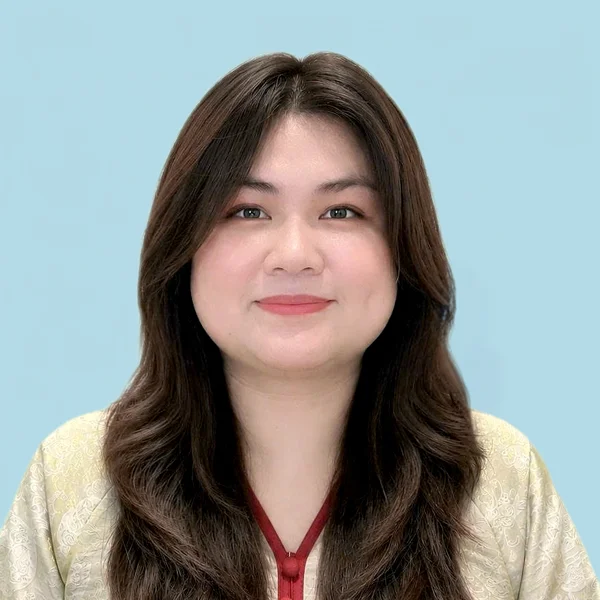
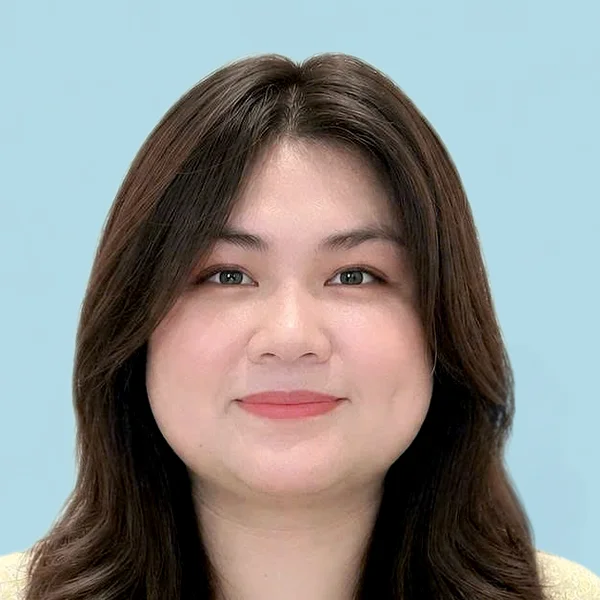
team: tighter crop on Thơ's photo to match the other portraits

diff --git a/pages/team-vi.html b/pages/team-vi.html
@@ -194,7 +194,7 @@
       <!-- Thơ N. -->
       <div class="h-card" data-reveal style="--delay:200ms;padding:2rem;">
         <div style="width:150px;height:150px;border-radius:50%;overflow:hidden;margin:0 auto 1.25rem;box-shadow:0 8px 20px -8px rgba(46,74,60,.35);">
-          <img src="../img/Tho.webp" alt="Thơ N., Điều Phối Viên Văn Phòng Tiếng Việt" style="width:100%;height:100%;object-fit:cover;object-position:center 40%;display:block;" loading="lazy" />
+          <img src="../img/Tho.webp" alt="Thơ N., Điều Phối Viên Văn Phòng Tiếng Việt" style="width:100%;height:100%;object-fit:cover;object-position:center top;display:block;" loading="lazy" />
         </div>
         <h3 class="h-card__title">Thơ N.</h3>
         <p style="font-size:.78rem;color:var(--green-md);text-transform:uppercase;letter-spacing:.1em;font-weight:600;margin:.35rem 0 .85rem;">Điều Phối Viên Văn Phòng Tiếng Việt</p>

diff --git a/pages/team.html b/pages/team.html
@@ -192,7 +192,7 @@
       <!-- Thơ N. -->
       <div class="h-card" data-reveal style="--delay:200ms;padding:2rem;">
         <div style="width:150px;height:150px;border-radius:50%;overflow:hidden;margin:0 auto 1.25rem;box-shadow:0 8px 20px -8px rgba(46,74,60,.35);">
-          <img src="../img/Tho.webp" alt="Thơ N., Vietnamese Office Coordinator" style="width:100%;height:100%;object-fit:cover;object-position:center 40%;display:block;" loading="lazy" />
+          <img src="../img/Tho.webp" alt="Thơ N., Vietnamese Office Coordinator" style="width:100%;height:100%;object-fit:cover;object-position:center top;display:block;" loading="lazy" />
         </div>
         <h3 class="h-card__title">Thơ N.</h3>
         <p style="font-size:.78rem;color:var(--green-md);text-transform:uppercase;letter-spacing:.1em;font-weight:600;margin:.35rem 0 .85rem;">Vietnamese Office Coordinator</p>
